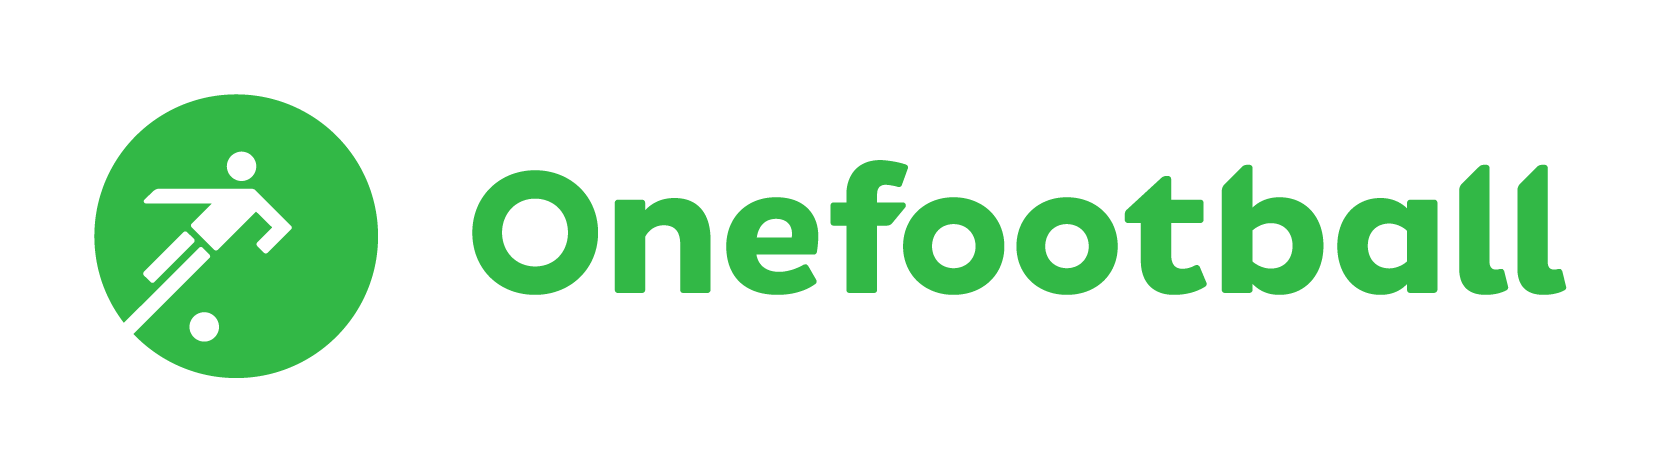
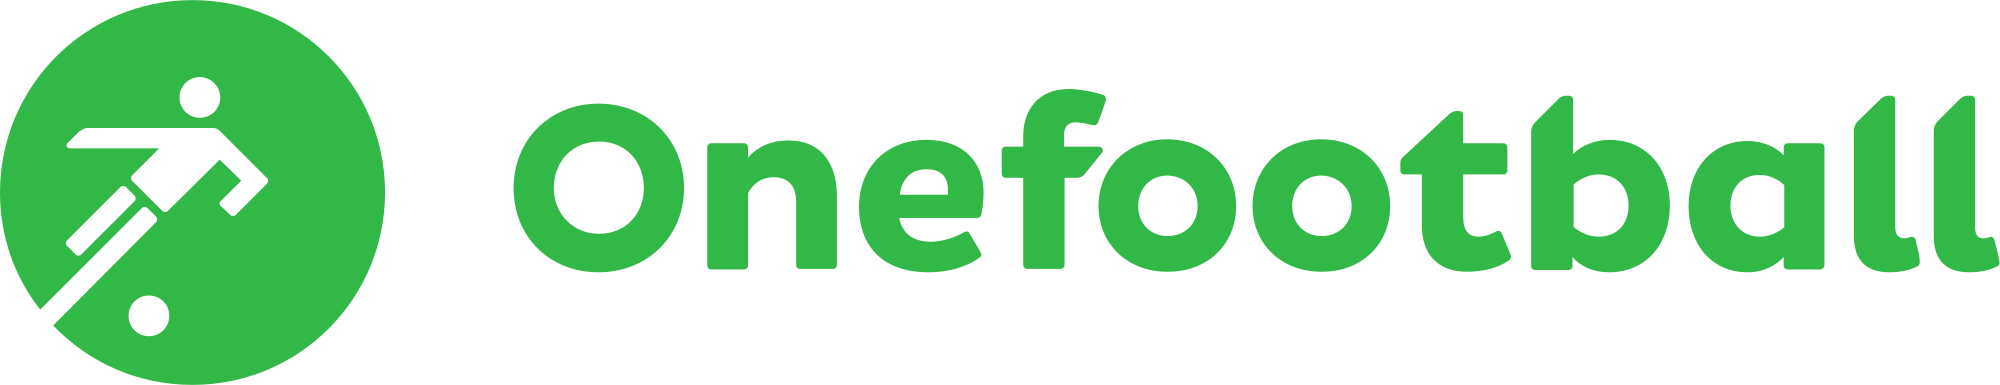
alter nav links.

Changed region(s): [[0.0, 0.0, 1.0, 1.0]]

diff --git a/src/app/nav/nav.component.html b/src/app/nav/nav.component.html
@@ -3,19 +3,13 @@
     <span class="navbar-toggler-icon"></span>
   </button>
   <a class="navbar-brand" href="#">
-    <img src='../../assets/images/nav-icon'>
+    <img id="icon1" src='../../assets/images/nav-icon.png'>
   </a>
 
   <div class="collapse navbar-collapse" id="navbarTogglerDemo03">
     <ul class="navbar-nav mr-auto mt-2 mt-lg-0">
       <li class="nav-item active">
-        <a class="nav-link" href="#">Home <span class="sr-only">(current)</span></a>
-      </li>
-      <li class="nav-item">
-        <a class="nav-link" href="#">Link</a>
-      </li>
-      <li class="nav-item">
-        <a class="nav-link disabled" href="#">Disabled</a>
+        <a class="nav-link" href="#"> Language <span class="sr-only">(current)</span></a>
       </li>
     </ul>
     <form class="form-inline my-2 my-lg-0">

diff --git a/src/app/nav/nav.component.css b/src/app/nav/nav.component.css
@@ -1,3 +1,9 @@
 .bg-white {
     background-color: white;
 }
+
+#icon1{
+  height:40px;
+  width: 220px;
+
+}
